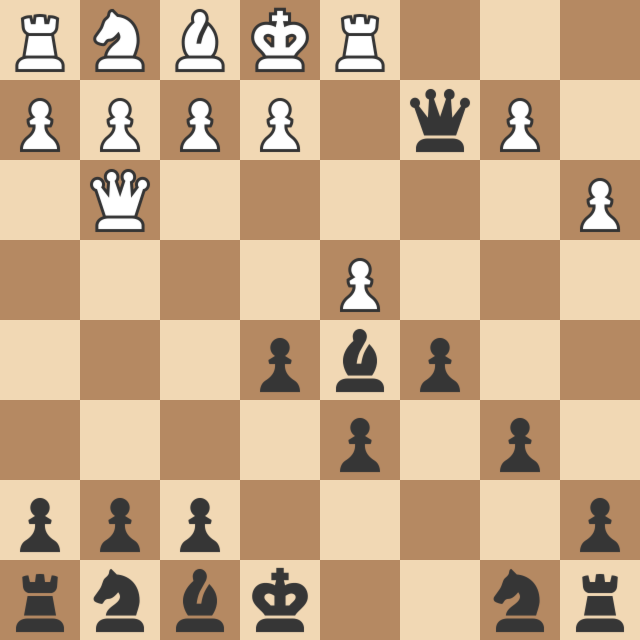
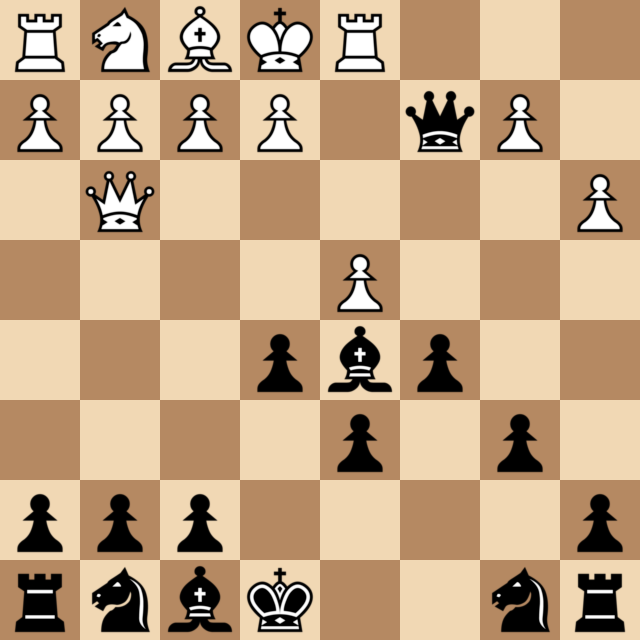
screenshot issue resolved

diff --git a/api/src/functions/image/image.js b/api/src/functions/image/image.js
@@ -1,10 +1,10 @@
-const {
-  getBoardBase64,
-  getBoardLayout,
-} = require('@treasure-chess/chess-image-generator')
+const { getBoardLayout } = require('@treasure-chess/chess-image-generator')
+const getBoardBase64Node = require('@treasure-chess/chess-image-generator/src/node/getBoardBase64-node')
 import Sentry from 'src/lib/sentry'
+import { logger } from 'src/lib/logger'
 
 export const handler = async (event) => {
+  logger.info('Invoked image function')
   try {
     const { moves, playerColor, options, dataOnly, boardLayout } = JSON.parse(
       event.body
@@ -13,7 +13,7 @@ export const handler = async (event) => {
       size: 640,
       dark: 'rgb(181, 137, 98)',
       light: 'rgb(241, 216, 180)',
-      style: 'alpha',
+      style: 'neo',
     }
     if (options) config = options
 
@@ -22,11 +22,11 @@ export const handler = async (event) => {
       if (!moves) throw 'No boardLayout or moves provided'
       layout = getBoardLayout(moves)
     }
-    const buffer = await getBoardBase64(layout, playerColor, config)
+    const buffer = await getBoardBase64Node(layout, playerColor, config)
     if (dataOnly) {
       return {
         statusCode: 200,
-        body: buffer.toString('base64'),
+        body: buffer,
       }
     }
     return {

diff --git a/api/src/lib/pinata/pinata.js b/api/src/lib/pinata/pinata.js
@@ -8,8 +8,6 @@ import { getAchievementNamesFromValues } from '@treasure-chess/treasure-filters'
 import { getDescription, getAttributes } from 'src/lib/pinata/helpers'
 import { getGifBase64 } from 'src/lib/chessCom/gifGetter'
 
-const { getBoardBase64 } = require('@treasure-chess/chess-image-generator')
-
 const PINATA_API_URL = 'https://api.pinata.cloud'
 const PINATA_API_KEY = process.env.PINATA_API_KEY
 const PINATA_API_SECRET_KEY = process.env.PINATA_API_SECRET_KEY
@@ -86,7 +84,7 @@ export const pinTreasure = async ({ treasure, tcn }) => {
     )
 
     const boardBuffer = await fetchBoardBase64Buffer({
-      boardLayout: treasure.boardLayout,
+      boardLayout: JSON.parse(treasure.boardLayout),
       playerColor: treasure.winner,
     })
 

diff --git a/api/src/functions/image/config/index.js b/api/src/functions/image/config/index.js
@@ -1,0 +1,39 @@
+const cols = "abcdefgh";
+
+const white = "PBNRQK";
+
+const black = "pbnrqk";
+
+const defaultSize = 480;
+
+const defaultLight = "rgb(240, 217, 181)";
+
+const defaultDark = "rgb(181, 136, 99)";
+
+const defaultStyle = "alpha";
+
+const filePaths = {
+  wp: "WhitePawn",
+  bp: "BlackPawn",
+  wb: "WhiteBishop",
+  bb: "BlackBishop",
+  wn: "WhiteKnight",
+  bn: "BlackKnight",
+  wr: "WhiteRook",
+  br: "BlackRook",
+  wq: "WhiteQueen",
+  bq: "BlackQueen",
+  wk: "WhiteKing",
+  bk: "BlackKing",
+};
+
+module.exports = {
+  cols,
+  white,
+  black,
+  defaultSize,
+  defaultLight,
+  defaultDark,
+  defaultStyle,
+  filePaths,
+};

diff --git a/api/src/functions/image/image.test.ts b/api/src/functions/image/image.test.ts
@@ -57,7 +57,9 @@ describe('image serverless function', () => {
     })
 
     const result = await handler(httpEvent)
-    const buffer = await result.body
+    console.log(result)
+
+    const buffer = result.body
     fs.writeFile('deleteme.png', buffer, (e) => e && console.log(e))
 
     expect(result.statusCode).toBe(200)
